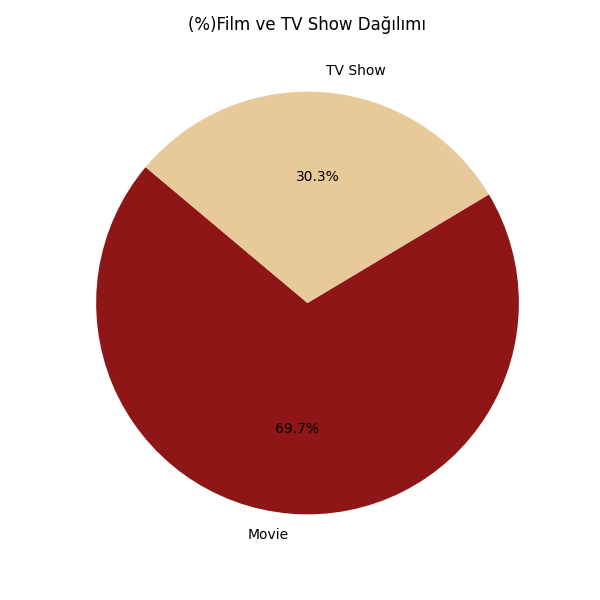
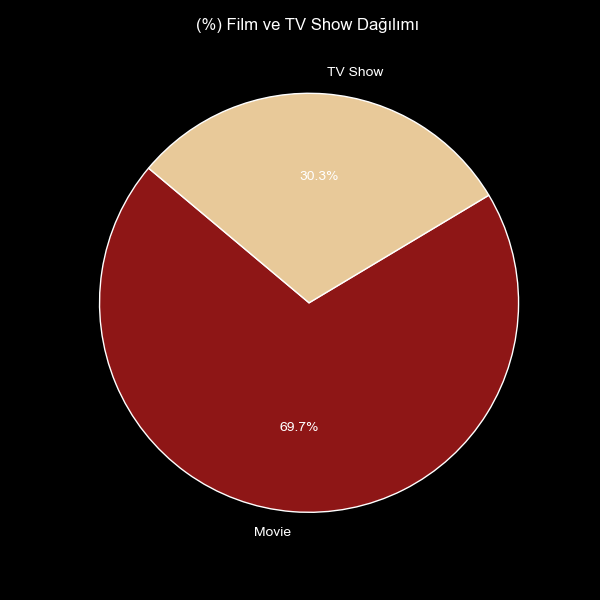
grafikler netflix temasına ayarlandı

diff --git a/countries_and_categories.py b/countries_and_categories.py
@@ -3,182 +3,137 @@ import matplotlib.pyplot as plt
 import seaborn as sns
 import os
 
+# Netflix teması ayarları
+plt.style.use('dark_background')
+sns.set_style("dark", {"axes.facecolor": "#000000"})
+plt.rcParams['axes.edgecolor'] = 'white'
+plt.rcParams['axes.labelcolor'] = 'white'
+plt.rcParams['xtick.color'] = 'white'
+plt.rcParams['ytick.color'] = 'white'
+plt.rcParams['text.color'] = 'white'
+plt.rcParams['figure.facecolor'] = '#000000'
+plt.rcParams['axes.facecolor'] = '#000000'
+plt.rcParams['savefig.facecolor'] = '#000000'
+
+red = '#8E1616'
+gold = '#E8C999'
+
 df = pd.read_csv("data/netflix1.csv")
 
-print(df.head())
-print(df.tail())
-print(df.info())
-print(df.isnull().sum())
-
-print("Çift kayıt sayısı:", df.duplicated().sum())
-
 df.rename(columns={"listed_in": "category"}, inplace=True)
-
-print(df.head())
 
 fig_dir = "graphics"
 os.makedirs(fig_dir, exist_ok=True)
 
+# 1. Pie Chart: Film ve TV Show dağılımı
 fig_path = os.path.join(fig_dir, "type_distribution_pie.png")
-
 if not os.path.exists(fig_path):
     type_counts = df['type'].value_counts()
-
-    plt.figure(figsize=(6,6))
-    plt.pie(type_counts,
-            labels=type_counts.index,
-            autopct='%1.1f%%',
-            startangle=140,
-            colors=['#8E1616', '#E8C999'])
-    plt.title('(%)Film ve TV Show Dağılımı', pad=30)
+    plt.figure(figsize=(6, 6))
+    plt.pie(type_counts, labels=type_counts.index, autopct='%1.1f%%',
+            startangle=140, colors=[red, gold], textprops={'color': 'white'})
+    plt.title('(%) Film ve TV Show Dağılımı', pad=30)
     plt.axis('equal')
-
     plt.savefig(fig_path)
-    print(f"Grafik kaydedildi: {fig_path}")
     plt.show()
-else:
-    print(f"Grafik zaten mevcut: {fig_path}")
 
-
-# 'country' sütunundaki boş değerleri çıkar, çoklu ülke varsa ayır
+# 2. Ülke listesi
 country_series = df['country'].dropna().str.split(', ')
 all_countries = country_series.explode()
-
 country_list = sorted(all_countries.unique())
-
-output_path = "countries.txt"
-
-with open(output_path, 'w', encoding='utf-8') as f:
+with open("countries.txt", 'w', encoding='utf-8') as f:
     f.write(f"Toplam {len(country_list)} ülke bulundu.\n\n")
     for country in country_list:
         f.write(f"- {country}\n")
 
-print(f"Ülke listesi dosyaya yazıldı: {output_path}")
-
-
-# Çoklu ülke isimlerini ayır, her satırı tek ülkeye indir
+# 3. Ülke bazlı içerik dağılımı
 country_expanded = df[['type', 'country']].dropna()
 country_expanded['country'] = country_expanded['country'].str.split(', ')
 country_expanded = country_expanded.explode('country')
+country_expanded['country'] = country_expanded['country'].str.strip()
 
-# Her ülke için TV Show ve Film sayısını grupla
+# "Not Given" filtrele
+country_expanded = country_expanded[~country_expanded['country'].str.contains("Not Given", case=False, na=False)]
+
 country_type_counts = country_expanded.groupby(['country', 'type']).size().unstack(fill_value=0)
-
-# En çok içeriğe sahip ilk 10 ülkeyi al (film + show toplamına göre)
 top_10_countries = country_type_counts.sum(axis=1).sort_values(ascending=False).head(10)
 top_data = country_type_counts.loc[top_10_countries.index]
 
-fig_dir = "graphics"
-os.makedirs(fig_dir, exist_ok=True)
+# Toplam içerik sayısı (stacked bar)
 fig_path = os.path.join(fig_dir, "top_10_countries_tv_film_distribution.png")
-
 if not os.path.exists(fig_path):
-    top_data.plot(kind='bar', stacked=True, figsize=(10,6), color=['#8E1616', '#E8C999'])
-
+    top_data.plot(kind='bar', stacked=True, figsize=(10, 6), color=[red, gold])
     plt.title("En Fazla İçeriğe Sahip 10 Ülke (TV Show & Film)")
     plt.xlabel("Ülke")
     plt.ylabel("İçerik Sayısı")
     plt.xticks(rotation=45, ha='right')
     plt.legend(title="Tür")
     plt.tight_layout()
-
     plt.savefig(fig_path)
-    print(f"Grafik kaydedildi: {fig_path}")
     plt.show()
-else:
-    print(f"Grafik zaten mevcut: {fig_path}")
 
-
-# Movie ve TV Show için ayrı ayrı en çok içeriğe sahip ilk 10 ülkeyi al
 top_10_movies = country_type_counts['Movie'].sort_values(ascending=False).head(10)
-top_10_shows = country_type_counts['TV Show'].sort_values(ascending=False).head(10)
-
-# Movie için grafik oluşturma
-fig_dir = "graphics"
-os.makedirs(fig_dir, exist_ok=True)
 fig_path_movie = os.path.join(fig_dir, "top_10_movies_by_country.png")
-
 if not os.path.exists(fig_path_movie):
-    top_10_movies.plot(kind='bar', color='#8E1616', figsize=(10,6))
-
+    top_10_movies.plot(kind='bar', color=red, figsize=(10, 6))
     plt.title("En Fazla Movie İçeriğine Sahip 10 Ülke")
     plt.xlabel("Ülke")
     plt.ylabel("Movie Sayısı")
     plt.xticks(rotation=45, ha='right')
     plt.tight_layout()
-
     plt.savefig(fig_path_movie)
-    print(f"Movie grafiği kaydedildi: {fig_path_movie}")
     plt.show()
-else:
-    print(f"Movie grafiği zaten mevcut: {fig_path_movie}")
 
-
-
-# TV Show için grafik oluşturma
+#  Sadece TV Show
+top_10_shows = country_type_counts['TV Show'].sort_values(ascending=False).head(10)
 fig_path_show = os.path.join(fig_dir, "top_10_tv_shows_by_country.png")
-
 if not os.path.exists(fig_path_show):
-    top_10_shows.plot(kind='bar', color='#E8C999', figsize=(10,6))
-
+    top_10_shows.plot(kind='bar', color=red, figsize=(10, 6))
     plt.title("En Fazla TV Show İçeriğine Sahip 10 Ülke")
     plt.xlabel("Ülke")
     plt.ylabel("TV Show Sayısı")
     plt.xticks(rotation=45, ha='right')
     plt.tight_layout()
-
     plt.savefig(fig_path_show)
-    print(f"TV Show grafiği kaydedildi: {fig_path_show}")
     plt.show()
-else:
-    print(f"TV Show grafiği zaten mevcut: {fig_path_show}")
 
-
-# Kategorileri ayırma ve her bir kategori için sayım yapma
+# 4. Kategori bazlı analiz
 category_expanded = df['category'].dropna().str.split(', ').explode()
 
-# Kategorilerin sayısını al ve en fazla görülen ilk 10 kategoriyi seç
+# "International Movies" ve "International TV Shows" kategorilerini hariç tut
+excluded_categories = ["International Movies", "International TV Shows"]
+category_expanded = category_expanded[~category_expanded.isin(excluded_categories)]
+
+# En çok geçen 10 kategori
 top_10_categories = category_expanded.value_counts().head(10)
 
-fig_dir = "graphics"
-os.makedirs(fig_dir, exist_ok=True)
 fig_path_categories = os.path.join(fig_dir, "top_10_categories.png")
-
 if not os.path.exists(fig_path_categories):
-    top_10_categories.plot(kind='bar', color='#8E1616', figsize=(10,6))
-
-    plt.title("En Fazla Görülen 10 Kategori")
+    top_10_categories.plot(kind='bar', color=red, figsize=(10, 6))
+    plt.title("En Fazla Görülen 10 Kategori (Uluslararası Kategoriler Hariç)")
     plt.xlabel("Kategori")
     plt.ylabel("Kategori Sayısı")
     plt.xticks(rotation=45, ha='right')
     plt.tight_layout()
-
     plt.savefig(fig_path_categories)
-    print(f"Kategori grafiği kaydedildi: {fig_path_categories}")
     plt.show()
-else:
-    print(f"Kategori grafiği zaten mevcut: {fig_path_categories}")
 
-# Daha önce hesaplanmış: top_10_countries (Series), top_10_countries.index (ülkeler)
-# category ve country sütunlarını explode ederek genişlet
+# 5. Top 10 ülkenin en çok içerik sağladığı kategori (filtreli)
 df_country_cat = df[['category', 'country']].dropna()
 df_country_cat['country'] = df_country_cat['country'].str.split(', ')
 df_country_cat['category'] = df_country_cat['category'].str.split(', ')
-
 df_exploded = df_country_cat.explode('country').explode('category')
 df_exploded['country'] = df_exploded['country'].str.strip()
 df_exploded['category'] = df_exploded['category'].str.strip()
 
-# Hariç tutulacak kategoriler (küçük harfe çevirerek filtreleme yapacağız)
-excluded_categories = ['international movies', 'international tv shows', 'not given', 'british tv shows']
+# Not Given filtrele
+df_exploded = df_exploded[~df_exploded['country'].str.contains("Not Given", case=False, na=False)]
 
+excluded_categories = ['international movies', 'international tv shows', 'not given', 'british tv shows']
 df_exploded['category_lower'] = df_exploded['category'].str.lower()
 filtered_df = df_exploded[~df_exploded['category_lower'].isin(excluded_categories)]
-
-# Sadece top 10 ülkeyi alalım
 filtered_df = filtered_df[filtered_df['country'].isin(top_10_countries.index)]
 
-# Ülke bazında en çok geçen kategoriyi bul
 top_category_per_country = (
     filtered_df.groupby(['country', 'category'])
     .size()
@@ -187,7 +142,6 @@ top_category_per_country = (
     .drop_duplicates('country')
 )
 
-# Ülkelerin sırasını korumak için kategorik hale getir
 top_category_per_country['country'] = pd.Categorical(
     top_category_per_country['country'],
     categories=top_10_countries.index,
@@ -195,34 +149,21 @@ top_category_per_country['country'] = pd.Categorical(
 )
 top_category_per_country = top_category_per_country.sort_values('country')
 
-
-custom_palette = [
-    '#8E1616', '#E8C999', '#B27200', '#005F73', '#0A9396',
-    '#94D2BD', '#6A994E', '#A5A58D', '#DDA15E', '#BC4749'
-]
-
-fig_path = os.path.join("graphics", "top_category_per_top_10_countries.png")
-
+fig_path = os.path.join(fig_dir, "top_category_per_top_10_countries.png")
 if not os.path.exists(fig_path):
-    plt.figure(figsize=(10,6))
+    plt.figure(figsize=(10, 6))
     sns.barplot(
         data=top_category_per_country,
         x='count',
         y='country',
         hue='category',
         dodge=False,
-        palette=custom_palette
+        palette='Set3'
     )
-
     plt.title("En Fazla İçeriğe Sahip 10 Ülkede En Popüler Kategori (Filtreli)")
     plt.xlabel("Kategori Sayısı")
     plt.ylabel("Ülke")
     plt.legend(title="Kategori", bbox_to_anchor=(1.05, 1), loc='upper left')
     plt.tight_layout()
     plt.savefig(fig_path)
-    print(f"Grafik kaydedildi: {fig_path}")
     plt.show()
-else:
-    print(f"Grafik zaten mevcut: {fig_path}")
-
-
